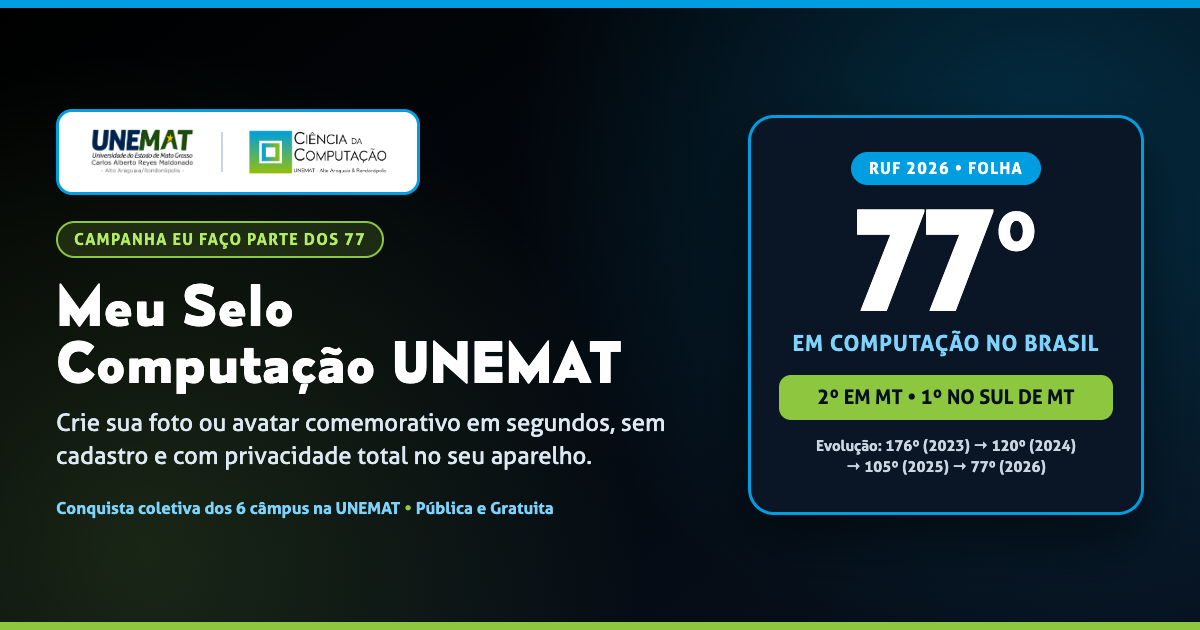
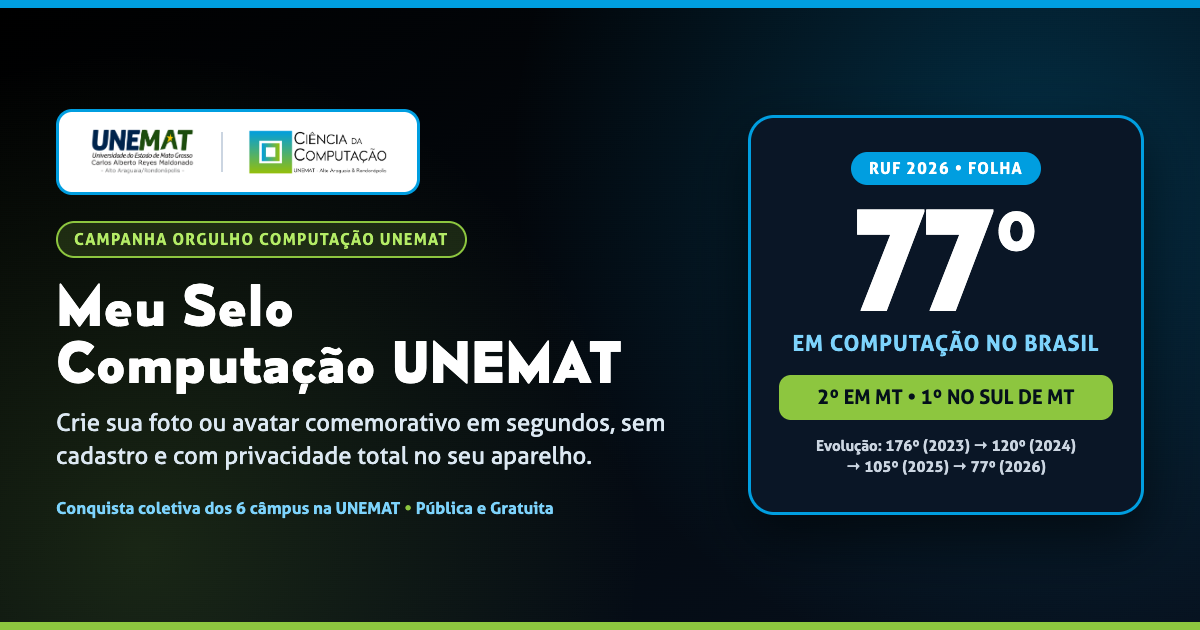
feat(selo77): adota nome oficial da campanha Orgulho Computacao UNEMAT

Changed region(s): [[0.1233, 0.3317, 0.4008, 0.4222]]

diff --git a/selo77/index.html b/selo77/index.html
@@ -1,4 +1,4 @@
-<!DOCTYPE html>
+ <!DOCTYPE html>
 <html lang="pt-BR">
 <head>
   <meta charset="UTF-8">
@@ -6,20 +6,20 @@
   <title>Meu Selo — Ciência da Computação — UNEMAT | RUF 2026</title>
   <link rel="icon" type="image/svg+xml" href="../marca/arquivos/logo_bcc_vertical.svg">
   <link rel="canonical" href="https://computacaounemat.github.io/selo77/">
-  <meta name="description" content="Crie sua foto ou avatar comemorativo da campanha Eu Faço Parte dos 77 — Ciência da Computação da UNEMAT: RUF 2026 — 77º em Computação no Brasil entre 592 instituições, 2º em Mato Grosso e 1º na Região Sul de MT.">
+  <meta name="description" content="Crie sua foto ou avatar comemorativo da campanha Orgulho Computação UNEMAT — RUF 2026: 1º na Região Sul de MT, 2º em Mato Grosso e 77º em Computação no Brasil entre 592 instituições.">
   <meta property="og:type" content="website">
   <meta property="og:locale" content="pt_BR">
   <meta property="og:site_name" content="Ciência da Computação — UNEMAT">
-  <meta property="og:title" content="Meu Selo — Ciência da Computação UNEMAT | RUF 2026">
-  <meta property="og:description" content="Personalize sua foto ou avatar da campanha Eu Faço Parte dos 77 em segundos, sem cadastro e com total privacidade no seu aparelho.">
+  <meta property="og:title" content="Meu Selo — Orgulho Computação UNEMAT | RUF 2026">
+  <meta property="og:description" content="Personalize sua foto ou avatar da campanha Orgulho Computação UNEMAT em segundos, sem cadastro e com total privacidade no seu aparelho.">
   <meta property="og:url" content="https://computacaounemat.github.io/selo77/">
   <meta property="og:image" content="https://computacaounemat.github.io/selo77/assets/og-selo77.png">
   <meta property="og:image:width" content="1200">
   <meta property="og:image:height" content="630">
-  <meta property="og:image:alt" content="Campanha Eu Faço Parte dos 77 — RUF 2026: UNEMAT em 77º em Computação no Brasil, 2º em MT e 1º no Sul de MT.">
+  <meta property="og:image:alt" content="Campanha Orgulho Computação UNEMAT — RUF 2026: UNEMAT em 77º em Computação no Brasil, 2º em MT e 1º no Sul de MT.">
   <meta name="twitter:card" content="summary_large_image">
-  <meta name="twitter:title" content="Meu Selo — Ciência da Computação UNEMAT | RUF 2026">
-  <meta name="twitter:description" content="Crie sua foto ou avatar comemorativo da campanha Eu Faço Parte dos 77 em segundos e sem cadastro.">
+  <meta name="twitter:title" content="Meu Selo — Orgulho Computação UNEMAT | RUF 2026">
+  <meta name="twitter:description" content="Crie sua foto ou avatar comemorativo da campanha Orgulho Computação UNEMAT em segundos e sem cadastro.">
   <meta name="twitter:image" content="https://computacaounemat.github.io/selo77/assets/og-selo77.png">
   <style>
     @font-face {
@@ -740,7 +740,7 @@
         <a href="../">← Site do curso</a>
         <a href="../marca/">Marca e manual</a>
       </nav>
-      <span class="topo-badge">Campanha Eu Faço Parte dos 77 • RUF 2026</span>
+      <span class="topo-badge">Campanha Orgulho Computação UNEMAT • RUF 2026</span>
     </header>
 
     <section class="hero" aria-labelledby="titulo-principal">
@@ -986,7 +986,7 @@
           </div>
 
           <div id="containerAlternativo" class="imagem-alternativa" hidden>
-            <img id="imagemAlternativa" alt="Seu selo da campanha Eu Faço Parte dos 77">
+            <img id="imagemAlternativa" alt="Seu selo da campanha Orgulho Computação UNEMAT">
             <p><strong>No iPhone/iPad, toque e segure a imagem acima para Salvar em Fotos.</strong></p>
             <p>Se o arquivo não baixar, abra a imagem para salvar:</p>
             <a id="linkAbrirAba" class="btn btn-secundario" href="#linkAbrirAba" target="_blank" rel="noopener">
@@ -1862,8 +1862,8 @@
       function desenharCapsulaLogosAro(ctx, cx, cy, isDark) {
         if (!state.logos) return;
         const { unemat, bccPreto } = state.logos;
-        const pillW = 304;
-        const pillH = 74;
+        const pillW = 336;
+        const pillH = 82;
         const px = cx - pillW / 2;
         const py = cy - pillH / 2;
 
@@ -1874,7 +1874,7 @@
         ctx.strokeStyle = isDark ? PALETA.verde : PALETA.ciano;
         ctx.stroke();
 
-        const maxH = 48;
+        const maxH = 54;
         const uRatio = unemat.naturalWidth / unemat.naturalHeight;
         const bRatio = bccPreto.naturalWidth / bccPreto.naturalHeight;
         let uH = maxH;
@@ -1943,7 +1943,7 @@
 
         if (comLogo) {
           // Topo 12h: cápsula oficial UNEMAT + Ciência da Computação
-          desenharCapsulaLogosAro(ctx, cx, 86, isDark);
+          desenharCapsulaLogosAro(ctx, cx, 82, isDark);
         } else {
           // Topo 12h sem logo: arco tipográfico limpo
           ctx.fillStyle = isDark ? PALETA.verde : PALETA.preto;
